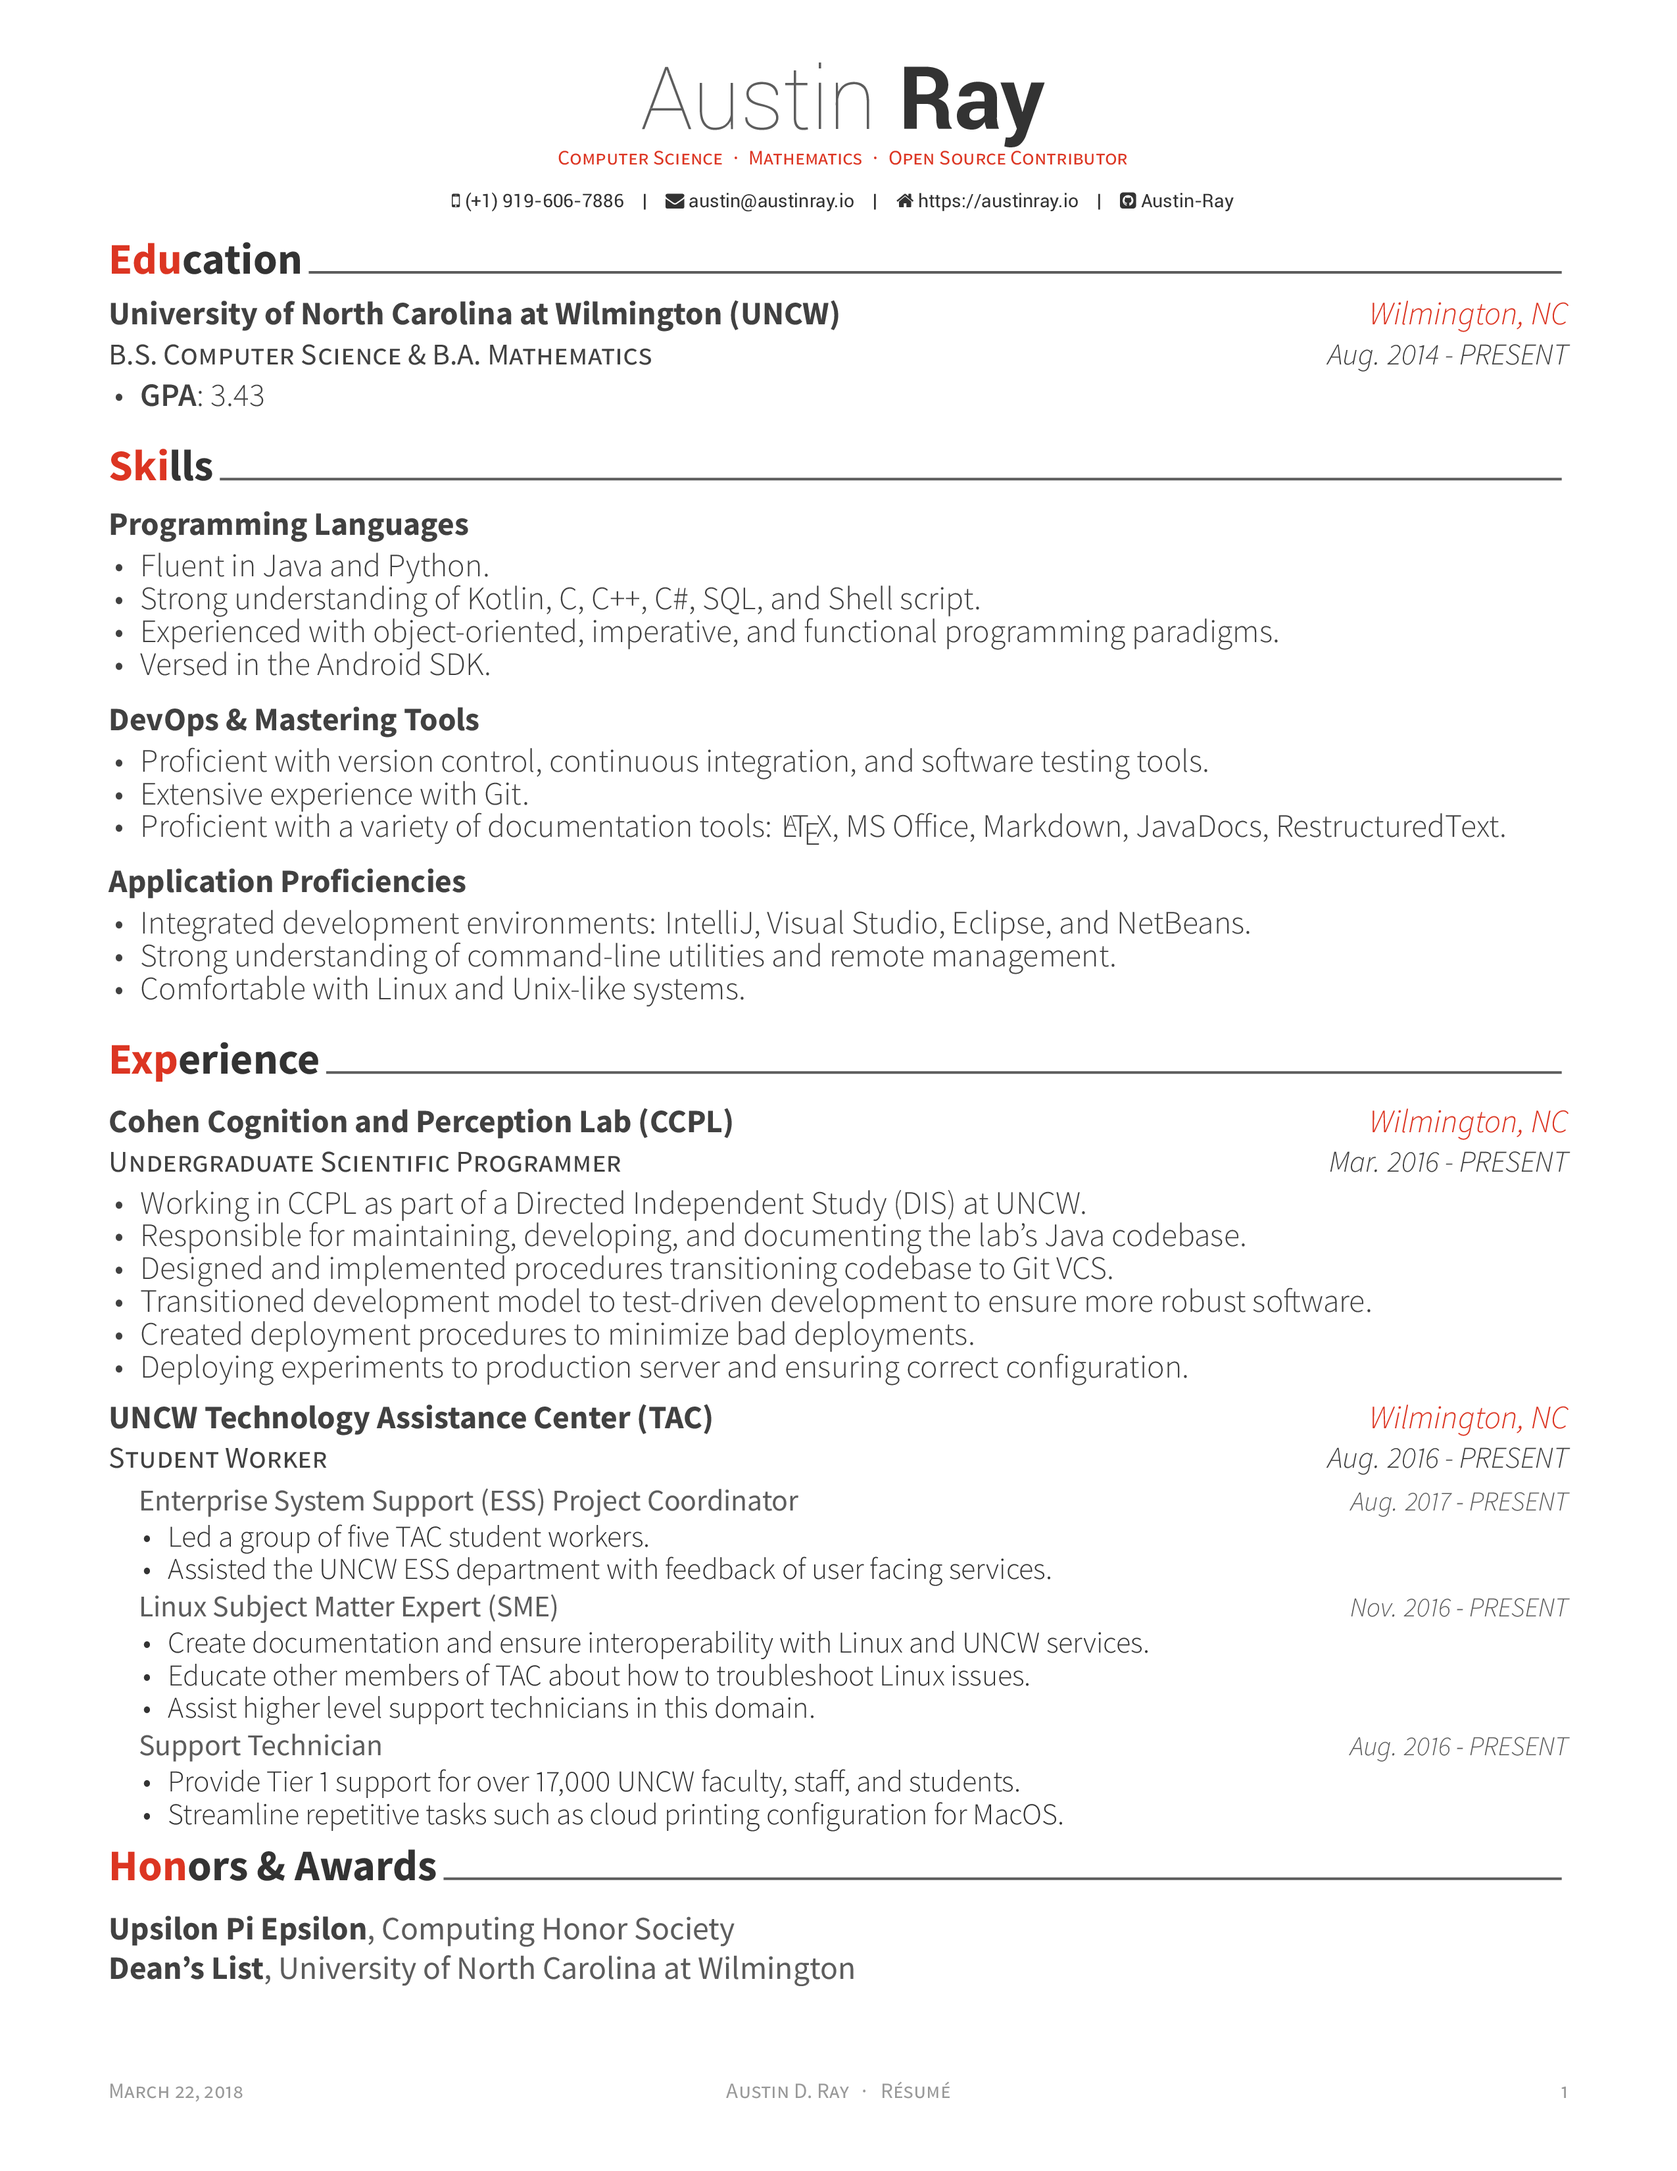
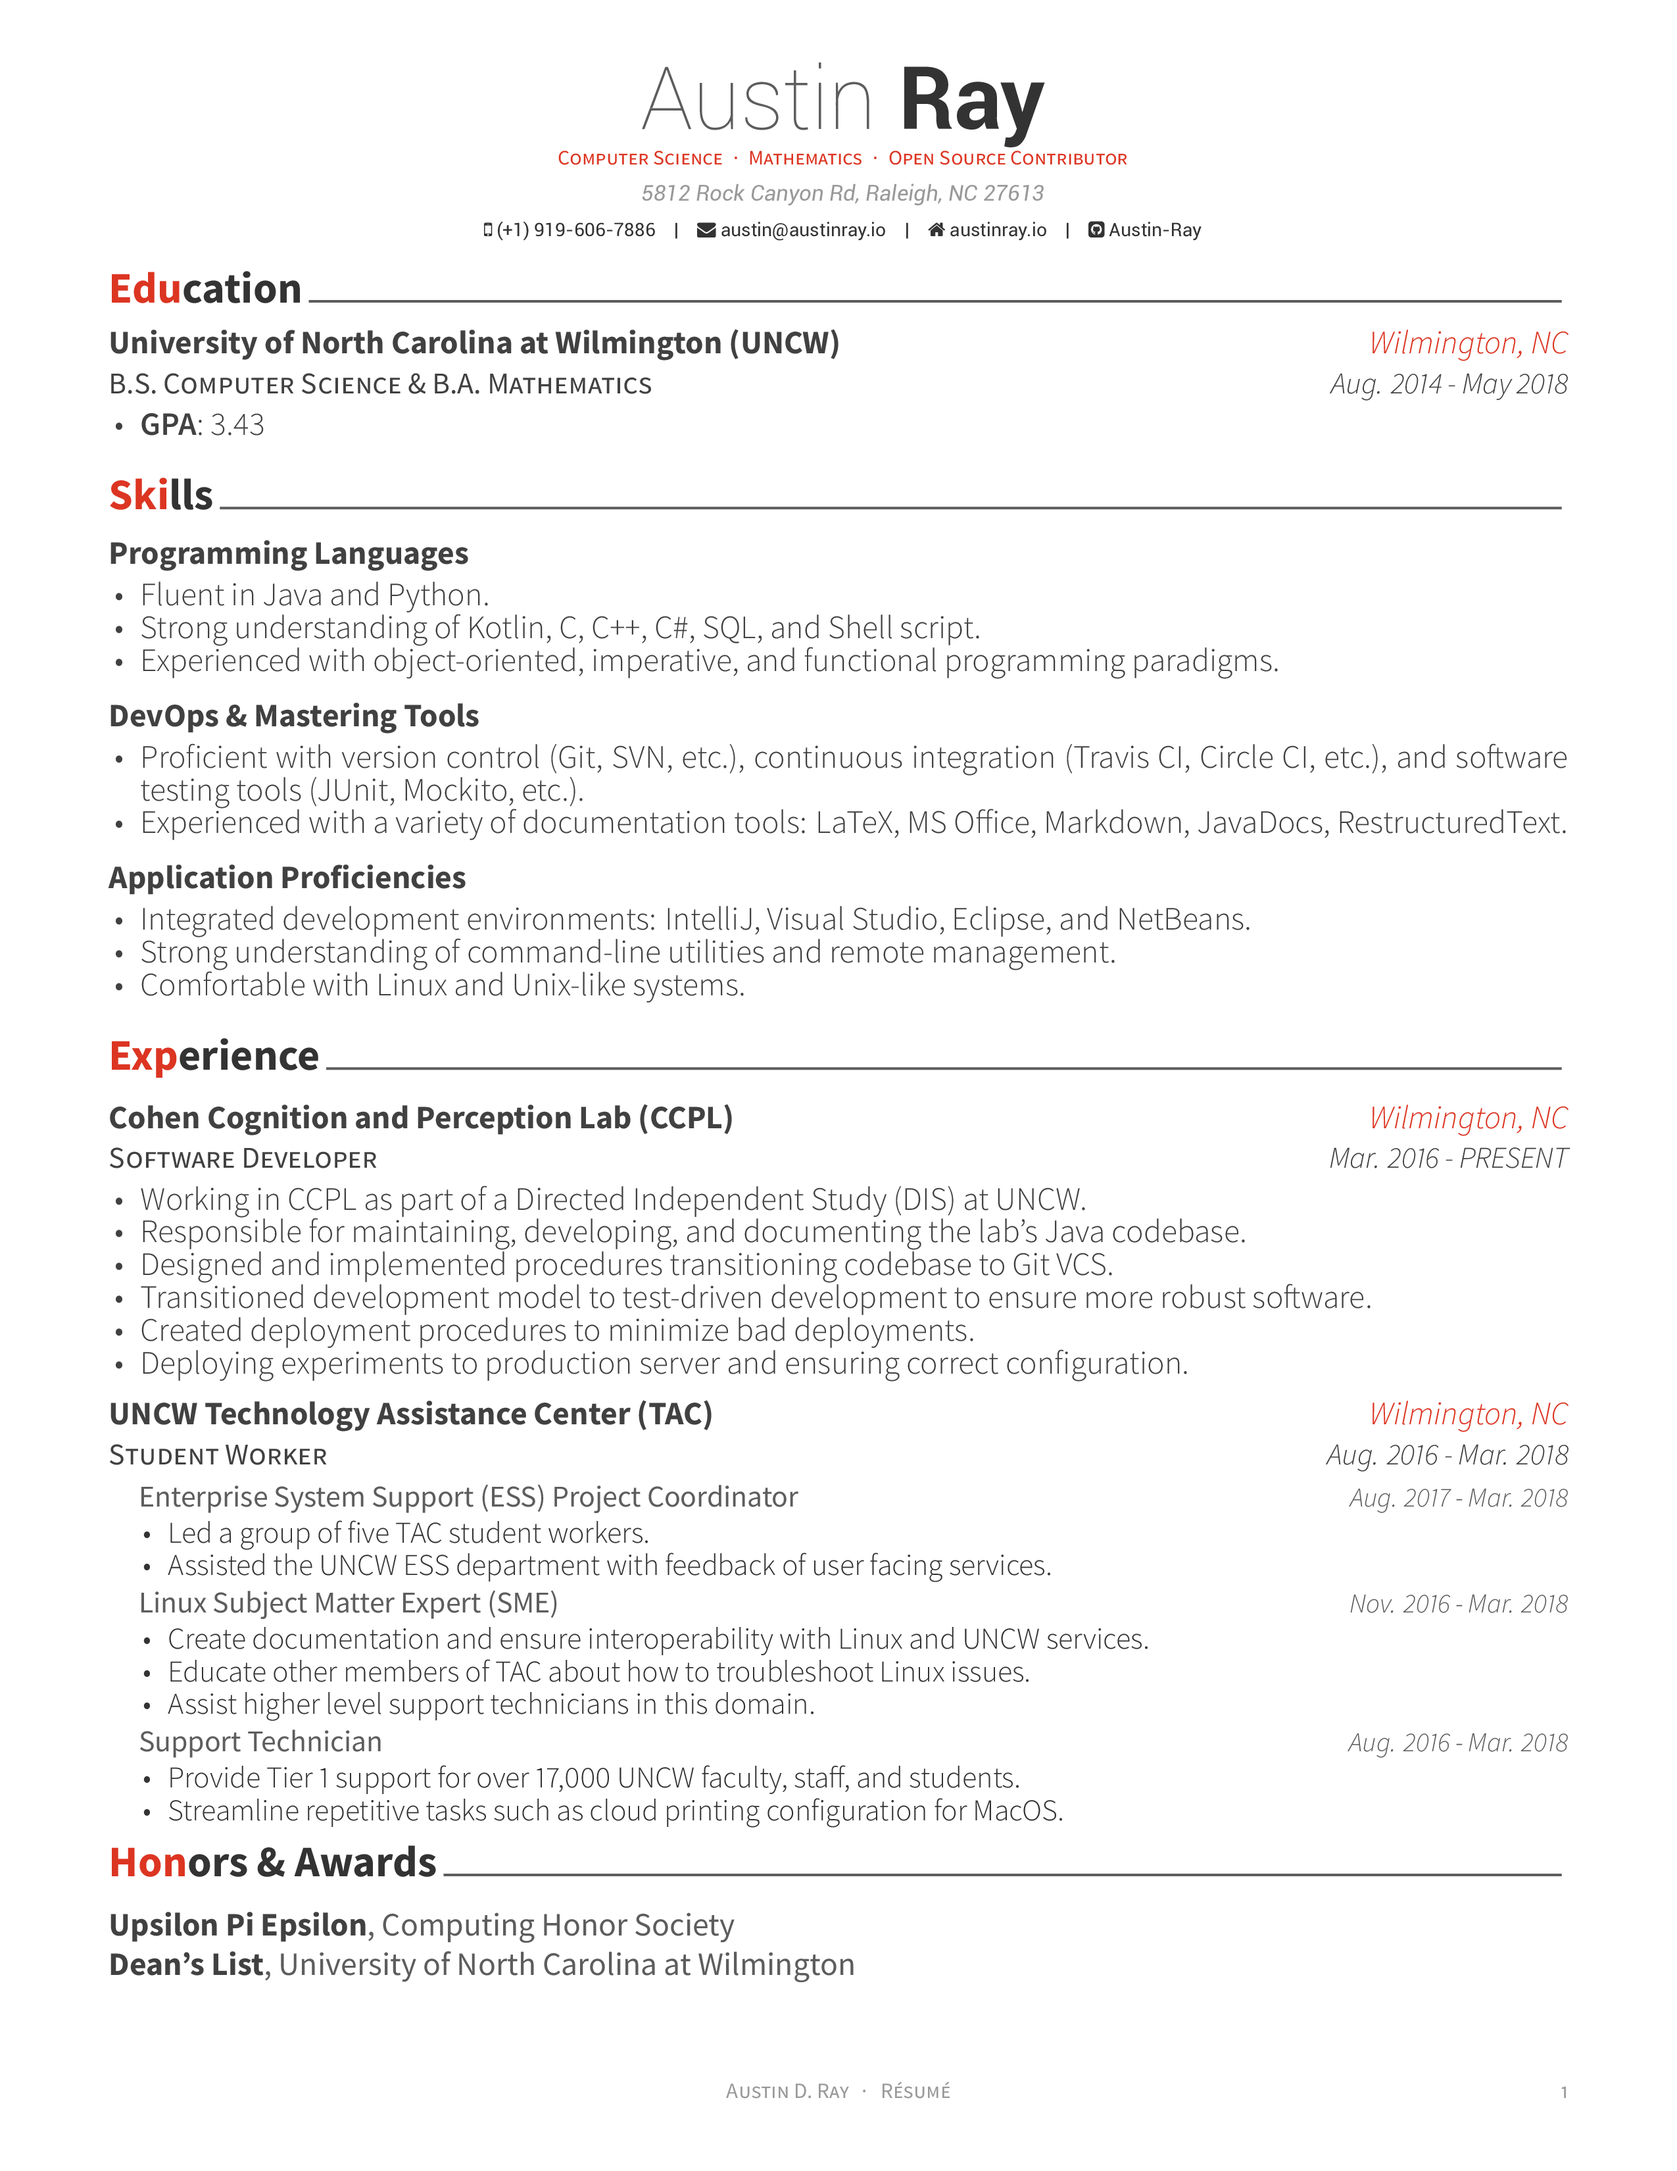
Update resume

diff --git a/sections/experience.tex b/sections/experience.tex
@@ -10,7 +10,7 @@
 \begin{cventries}
 %---------------------------------------------------------
   \cventry
-    {Undergraduate Scientific Programmer} % Job title
+    {Software Developer} % Job title
     {Cohen Cognition and Perception Lab (CCPL)} % Organization
     {Wilmington, NC} % Location
     {Mar. 2016 - PRESENT} % Date(s)
@@ -30,17 +30,17 @@
     %{Support Technician \& Project Coordinator \& Linux Subject Matter Expert (SME)} % Job title
     {UNCW Technology Assistance Center (TAC)} % Organization
     {Wilmington, NC} % Location
-    {Aug. 2016 - PRESENT} % Date(s)
+    {Aug. 2016 - Mar. 2018} % Date(s)
     {
       \begin{cvsubentries}
-        \cvsubentry{}{Enterprise System Support (ESS) Project Coordinator}{Aug. 2017 - PRESENT}
+        \cvsubentry{}{Enterprise System Support (ESS) Project Coordinator}{Aug. 2017 - Mar. 2018}
         {
           \begin{cvsubitems}
             \item {Led a group of five TAC student workers.}
             \item {Assisted the UNCW ESS department with feedback of user facing services.}
           \end{cvsubitems}
         }
-        \cvsubentry{}{Linux Subject Matter Expert (SME)}{Nov. 2016 - PRESENT}
+        \cvsubentry{}{Linux Subject Matter Expert (SME)}{Nov. 2016 - Mar. 2018}
         {
           \begin{cvsubitems}
             \item {Create documentation and ensure interoperability with Linux and UNCW services.}
@@ -48,7 +48,7 @@
             \item {Assist higher level support technicians in this domain.}
           \end{cvsubitems}
         }
-        \cvsubentry{}{Support Technician}{Aug. 2016 - PRESENT}
+        \cvsubentry{}{Support Technician}{Aug. 2016 - Mar. 2018}
         {
           \begin{cvsubitems}
             \item {Provide Tier 1 support for over 17,000 UNCW faculty, staff, and students.}

diff --git a/sections/skills.tex b/sections/skills.tex
@@ -10,16 +10,15 @@
         \item {Fluent in Java and Python.}
         \item {Strong understanding of Kotlin, C, C++, C\#, SQL, and Shell script.}
         \item {Experienced with object-oriented, imperative, and functional programming paradigms.}
-        \item {Versed in the Android SDK.}
+        %\item {Versed in the Android SDK.}
       \end{cvitems}
     }
 
   \cvskill{DevOps \& Mastering Tools}
   {
     \begin{cvitems}
-      \item {Proficient with version control, continuous integration, and software testing tools.}
-      \item {Extensive experience with Git.}
-      \item {Proficient with a variety of documentation tools: \LaTeX, MS Office, Markdown, JavaDocs, RestructuredText.}
+      \item {Proficient with version control (Git, SVN, etc.), continuous integration (Travis CI, Circle CI, etc.), and software testing tools (JUnit, Mockito, etc.).}
+      \item {Experienced with a variety of documentation tools: LaTeX, MS Office, Markdown, JavaDocs, RestructuredText.}
     \end{cvitems}
   }
 

diff --git a/resume.tex b/resume.tex
@@ -55,11 +55,11 @@
 % \photo[rectangle,edge,right]{./examples/profile}
 \name{Austin}{Ray}
 \position{Computer Science{\enskip\cdotp\enskip}Mathematics{\enskip\cdotp\enskip}Open Source Contributor}
-%\address{3113 Friendship Rd, Apex, North Carolina 27502}
+\address{5812 Rock Canyon Rd, Raleigh, NC 27613}
 
 \mobile{(+1) 919-606-7886}
 \email{austin@austinray.io}
-\homepage{https://austinray.io}
+\homepage{austinray.io}
 \github{Austin-Ray}
 %\linkedin{posquit0}
 % \gitlab{gitlab-id}
@@ -82,7 +82,7 @@
 % Print the footer with 3 arguments(<left>, <center>, <right>)
 % Leave any of these blank if they are not needed
 \makecvfooter
-  {\today}
+  {}
   {Austin D. Ray~~~·~~~Résumé}
   {\thepage}
 %-------------------------------------------------------------------------------

diff --git a/sections/education.tex b/sections/education.tex
@@ -14,7 +14,7 @@
     {B.S. Computer Science \& B.A. Mathematics} % Degree
     {University of North Carolina at Wilmington (UNCW)} % Institution
     {Wilmington, NC} % Location
-    {Aug. 2014 - PRESENT} % Date(s)
+    {Aug. 2014 - May 2018} % Date(s)
     {
       \begin{cvitems}
         \item {\textbf{GPA}: 3.43}
